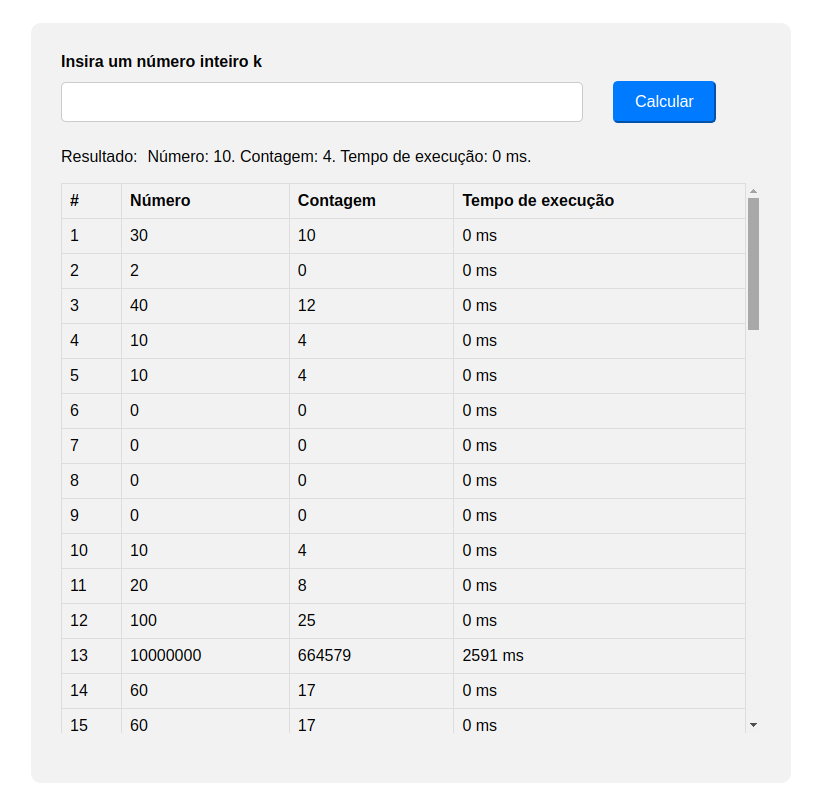
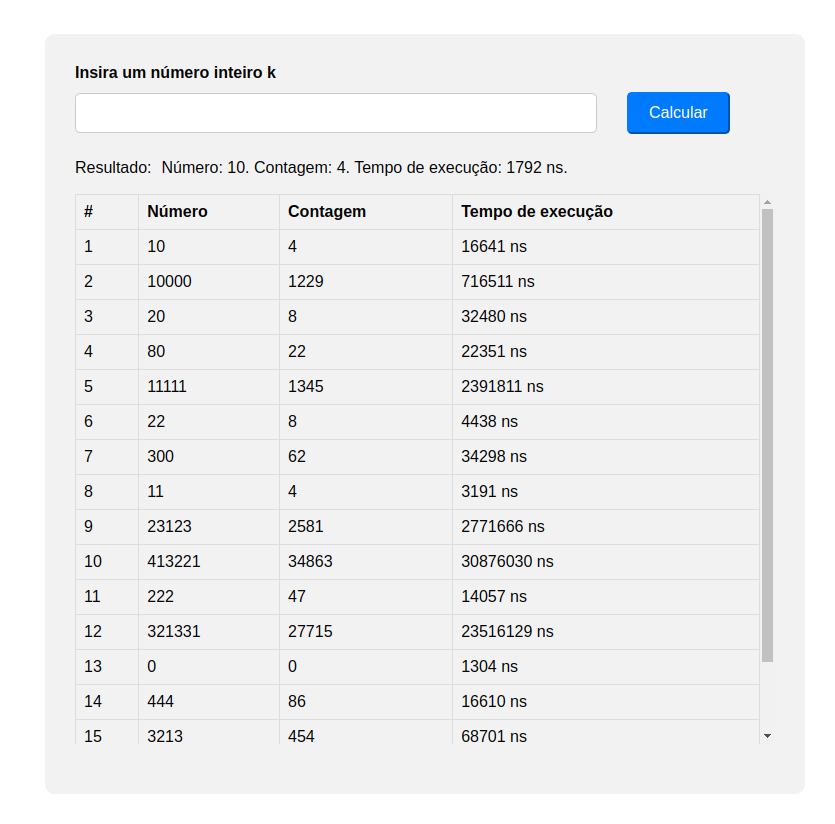
ajustes finais

diff --git a/frontend/src/components/NumberInput.js b/frontend/src/components/NumberInput.js
@@ -13,13 +13,12 @@ function NumberInput({ onUpdateData }) {
   };
 
   const handleSubmit = async () => {
-
-    setNumber('');
     const isInteger = /^\d+$/.test(number);
     if (!isInteger) {
       setIsValidInteger(false);
       setResult('')
     } else { 
+        setNumber('');
         setIsValidInteger(true);
         try {
             const response = await calculateNumber(number);
@@ -51,12 +50,11 @@ function NumberInput({ onUpdateData }) {
       <div className='result'>
         <div>Resultado: </div>
         {result.input && (
-            <div>Número: {result.input}. Contagem: {result.count}. Tempo de execução: {result.executionTime} ms.</div>
+            <div>Número: {result.input}. Contagem: {result.count}. Tempo de execução: {result.executionTime} ns.</div>
         )}
       </div>
     </div>
   );
-  
 }
   
 export default NumberInput;

diff --git a/frontend/src/components/NumberTable.js b/frontend/src/components/NumberTable.js
@@ -36,7 +36,7 @@ function NumberTable({reload}) {
                             <td>{index + 1}</td>
                             <td>{item.input}</td>
                             <td>{item.count}</td>
-                            <td>{item.executionTime} ms</td>
+                            <td>{item.executionTime} ns</td>
                         </tr>
                     ))}
                 </tbody>

diff --git a/frontend/public/index.html b/frontend/public/index.html
@@ -25,7 +25,7 @@
       work correctly both with client-side routing and a non-root public URL.
       Learn how to configure a non-root public URL by running `npm run build`.
     -->
-    <title>React App</title>
+    <title>Desafio Bridge</title>
   </head>
   <body>
     <noscript>You need to enable JavaScript to run this app.</noscript>

diff --git a/backend/src/main/java/com/bridge/backend/service/NumberService.java b/backend/src/main/java/com/bridge/backend/service/NumberService.java
@@ -19,10 +19,9 @@ public class NumberService {
     }
 
     public void insert(Number number) {
-
-        long startTime = System.currentTimeMillis();
+        long startTime = System.nanoTime();
         int numberCount = countPrimesLessThan(number.getInput());
-        long endTime = System.currentTimeMillis();
+        long endTime = System.nanoTime();
         
         long executionTime = endTime - startTime;
         number.setCount(numberCount);

diff --git a/README.md b/README.md
@@ -1,20 +1,18 @@
 # Desafio web fullstack
-Você deve criar uma Aplicação Web, que permita que o usuário insira um número
-inteiro k e calcule o número de inteiros positivos primos n MENORES que k
 
 ## Funcionalidades da Aplicação
 - Cálculo no backend: A aplicação calcula o número de inteiros positivos primos menores que o número inteiro k fornecido pelo usuário.
 - Persistência: Armazenamento dos resultados de todos cálculos realizados.
-- Performance: Tempo de execução da consulta em microsegundos exibido na interface do usuário.
+- Performance: Tempo de execução da consulta em nanosegundos exibido na interface do usuário.
 - Validação de Entrada: A entrada no campo de texto aceita apenas números inteiros, com validação realizada no frontend.
-- Testes: teste unitário da função principal de cálculo
+- Testes: teste unitário da função principal de cálculo.
 
 
 ## Tecnologias
 - Java com Spring boot
 - Postgres no banco de dados
-- Testes com da API com Postman
-- React para o frontend
+- Testes da API com Postman
+- React no frontend
 - CSS puro para estilização
 
 ## Configuração do Ambiente
@@ -28,12 +26,12 @@ git clone git@github.com:Livia-ferrao/desafio-web-bridge.git
 
 ### 2º - Banco de Dados
 
-Crie um banco de dados chamado fullstack utilizando o terminal ou uma ferramenta de interface gráfica como PGAdmin:
+Crie um banco de dados chamado fullstack utilizando o terminal ou uma ferramenta de interface gráfica como PGAdmin
 ```bash
 sudo -u {user} psql
-CREATE DATABASE desafio_bridge;
+CREATE DATABASE fullstack;
 ```
-Configure a url, o username e o password para a conexão do banco de dados em `backend/src/main/resources/application.properties`. 
+Configure a url, o username e a password para a conexão do banco de dados em `backend/src/main/resources/application.properties`. 
 
 ### 3º -  Back-end
 
@@ -47,7 +45,7 @@ java -jar ./target/backend-0.0.1-SNAPSHOT.jar
 
 ### 4º -  Front-end
 
-Navegue até o diretório do frontend e instale as dependências e inicie a aplicação:
+Navegue até o diretório do frontend e instale as dependências e inicie a aplicação
 ```bash
 cd ./frontend
 npm install
